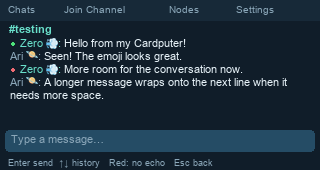
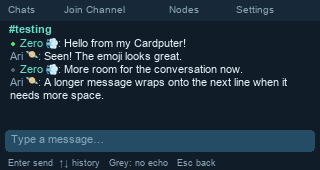
feat: mute unconfirmed indicators and prepare store listing

Changed region(s): [[0.3438, 0.9412, 0.6875, 1.0], [0.0312, 0.3824, 0.0625, 0.4412]]

diff --git a/tests/test_update.py b/tests/test_update.py
@@ -6,7 +6,7 @@ import unittest
 from pathlib import Path
 from unittest.mock import patch
 from meshcore_zero.update import Updater, REPO, version
-from meshcore_zero.ui import UI, GREEN, RED
+from meshcore_zero.ui import UI, GREEN, UNCONFIRMED
 from meshcore_zero.store import Store
 
 class UpdateTests(unittest.TestCase):
@@ -17,7 +17,7 @@ class UpdateTests(unittest.TestCase):
     def test_version_and_release_validation(self):
         self.assertGreater(version('0.1.10'),version('v0.1.9'))
         with self.assertRaises(ValueError): version('1.2.3;echo bad')
-        u=Updater()
+        u=Updater('0.1.8')
         with patch('meshcore_zero.update.fetch',return_value=self.release()): self.assertTrue(u.check())
         invalid=json.loads(self.release());invalid['assets'][0]['browser_download_url']='https://example.com/app.deb'
         with patch('meshcore_zero.update.fetch',return_value=json.dumps(invalid).encode()):
@@ -25,7 +25,7 @@ class UpdateTests(unittest.TestCase):
         with patch('meshcore_zero.update.fetch',return_value=self.release()): self.assertFalse(Updater('0.1.10').check())
 
     def test_download_integrity_and_cleanup(self):
-        u=Updater();payload=b'package test';sha=hashlib.sha256(payload).hexdigest()
+        u=Updater('0.1.8');payload=b'package test';sha=hashlib.sha256(payload).hexdigest()
         with patch('meshcore_zero.update.fetch',return_value=self.release()):u.check()
         manifest=(sha+'  '+u.release[1]+'\n').encode()
         with patch('meshcore_zero.update.fetch',side_effect=[manifest,payload]): u.download()
@@ -47,7 +47,7 @@ class UpdateTests(unittest.TestCase):
         with tempfile.TemporaryDirectory() as root:
             store=Store(root);store.join('#testing');mid=store.add('#testing','Zero','Hi',status='sent')
             ui=UI(store);ui.open_chat(next(c for c in store.chats() if c['id']=='#testing'))
-            self.assertEqual(ui.chat_lines(store.history('#testing'))[0][0],('● ',RED))
+            self.assertEqual(ui.chat_lines(store.history('#testing'))[0][0],('● ',UNCONFIRMED))
             store.bind_tx(mid,'hash');store.heard('hash',0)
             self.assertEqual(ui.chat_lines(store.history('#testing'))[0][0],('● ',GREEN))
             image=ui.render();color=tuple(bytes.fromhex(GREEN[1:]));pixels=[(x,y) for y in range(37,50) for x in range(10,18) if image.getpixel((x,y))==color]

diff --git a/meshcore_zero/ui.py b/meshcore_zero/ui.py
@@ -11,7 +11,7 @@ TEXT = '#e8f3f9'
 ACCENT = '#69dfca'
 SELECT = '#254c65'
 GREEN = '#4de27a'
-RED = '#f16b73'
+UNCONFIRMED = '#52616d'
 
 
 class UI:
@@ -94,7 +94,7 @@ class UI:
                 body += ' ['+msg['status']+']'
             spans=[(name+': ',ACCENT if outgoing else MUTED),(body,TEXT)]
             if outgoing:
-                color=GREEN if msg.get('heard_at') or msg['status']=='delivered' else RED
+                color=GREEN if msg.get('heard_at') or msg['status']=='delivered' else UNCONFIRMED
                 spans.insert(0,('● ',color))
             lines.extend(self.text.wrap(spans,300,11))
         return lines
@@ -343,14 +343,14 @@ class UI:
             for i,line in enumerate(visible):
                 x=10
                 for value,color in line:
-                    if value=='● ' and color in (GREEN,RED):
+                    if value=='● ' and color in (GREEN,UNCONFIRMED):
                         d.ellipse((x+1,42+i*13,x+4,45+i*13),fill=color)
                         x+=self.text.width(value,11)
                     else:
                         x=text(x,37+i*13,value,color,11,width=310-x)
             if not history: text(10,58,'Start the conversation.',MUTED,12)
             self.draw_composer(img)
-            hint='Enter send  ↑↓ history   Red: no echo   Esc back'
+            hint='Enter send  ↑↓ history   Grey: no echo   Esc back'
             self.store.read(self.chat['id'])
         d.rectangle((0,154,319,169),fill=BG)
         text(8,157,hint,MUTED,9)

diff --git a/meshcore_zero/__init__.py b/meshcore_zero/__init__.py
@@ -1,2 +1,2 @@
 """Standalone MeshCore client for Cardputer Zero."""
-__version__ = "0.1.8"
+__version__ = "0.1.9"

diff --git a/README.md b/README.md
@@ -73,7 +73,7 @@ not the radio frequency.
 ## Message indicators
 
 Small green circles mean a matching radio echo or DM acknowledgement returned.
-Red circles mean no confirmation has returned yet.
+Muted grey circles mean no confirmation has returned yet.
 
 A transmitted channel message can be heard by another device without any
 response returning. A heard indication appears only when MeshCore receives a

diff --git a/CHANGELOG.md b/CHANGELOG.md
@@ -1,5 +1,11 @@
 # Changelog
 
+## 0.1.9 — 2026-11-18
+
+- Muted dark grey unconfirmed-message dots so green confirmations stand out.
+- Updated app store listing for the first public store submission.
+
+
 ## 0.1.8 — 2026-11-18
 
 - Small green/red message indicators; recognize matching zero-hop radio echoes.
